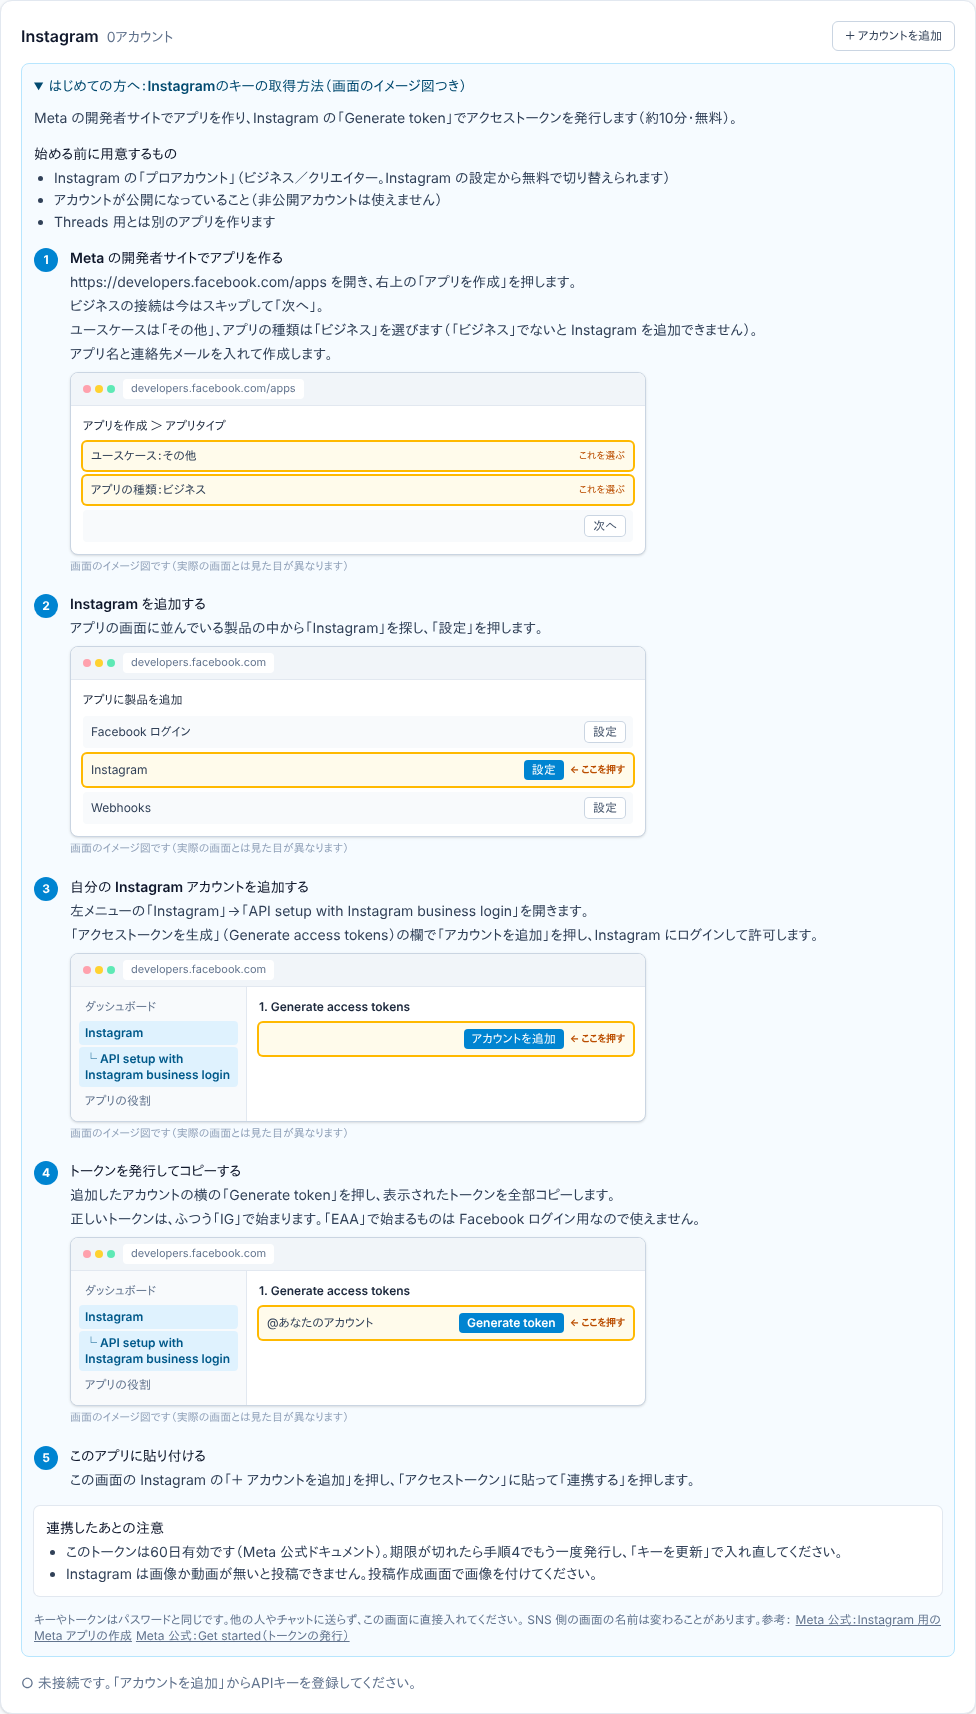
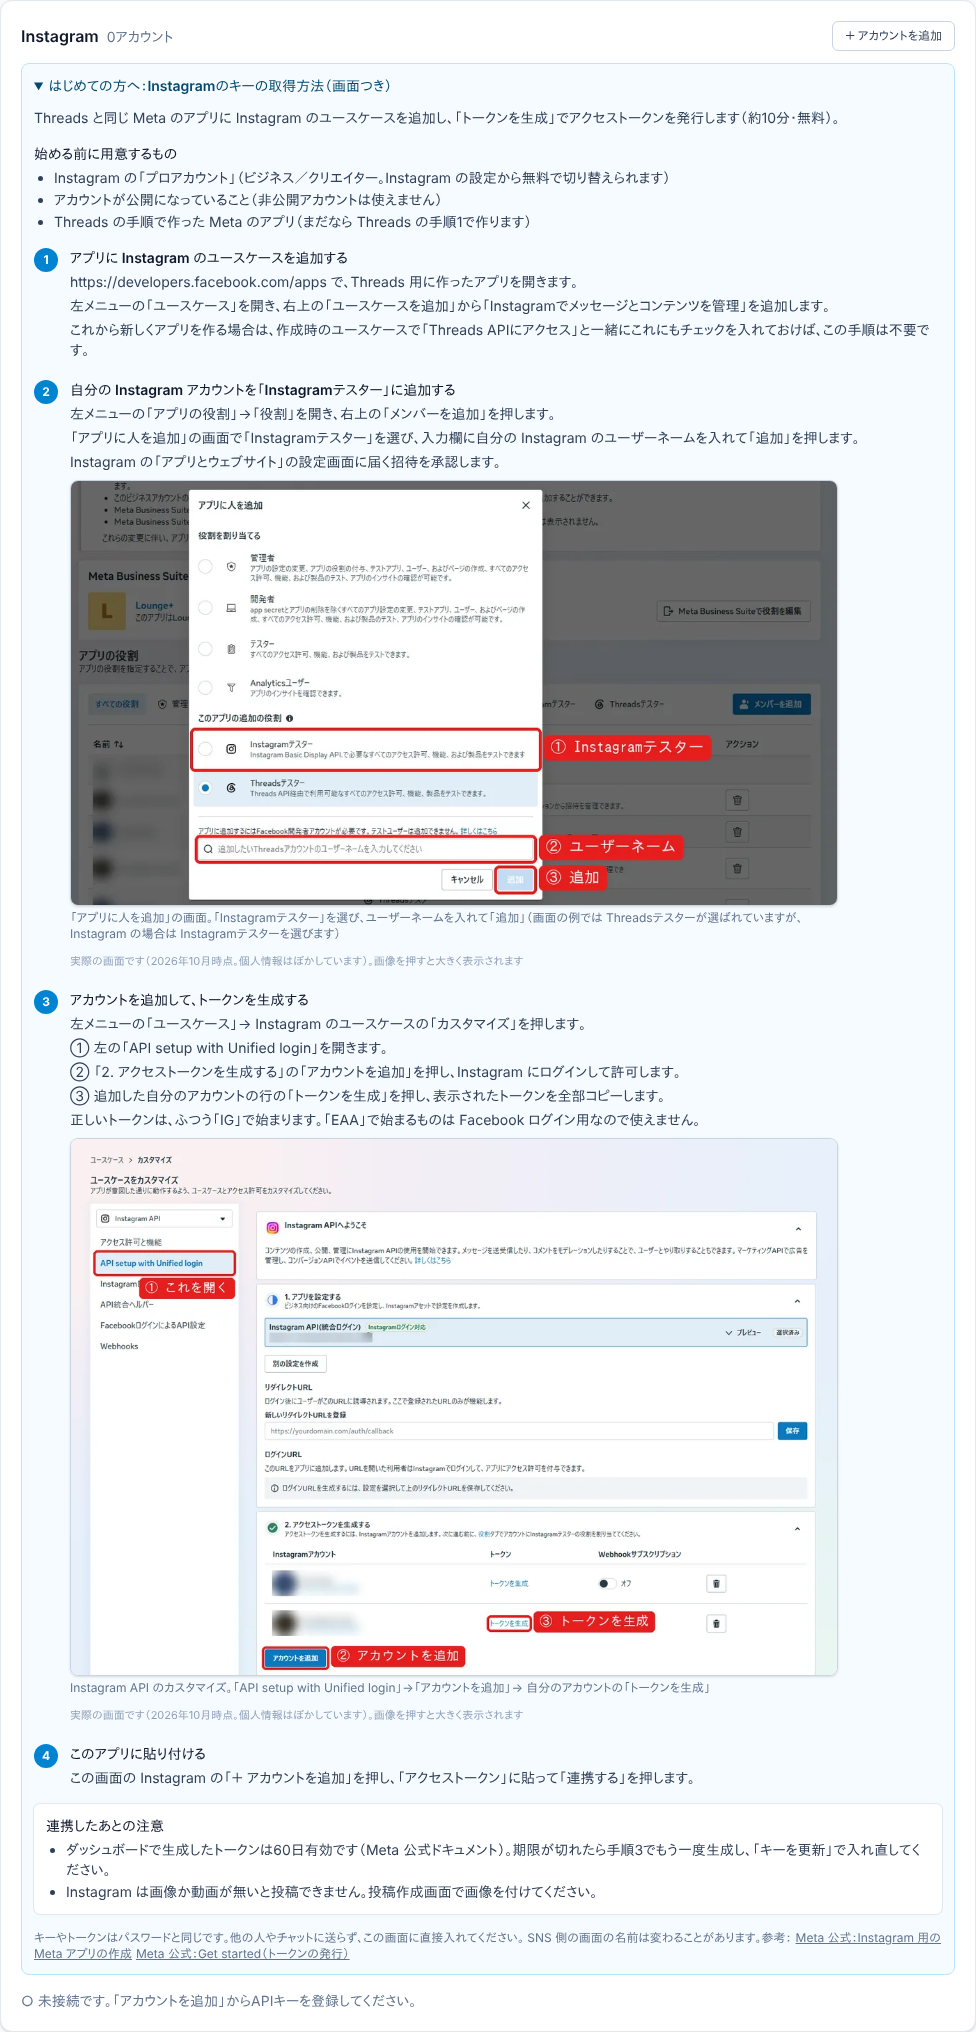
Threads・Instagram のキーの取得手順を実際の画面に差し替える
- Threads：権限の追加、テスターの追加、招待の承認を実際の画面に（お名前・ユーザーネームはぼかし）
- Instagram：Instagramテスターの追加を実際の画面に
- 権限の手順を実際の画面に合わせる（「アクセス許可と機能」で「テスト準備完了」なら追加済み）

Claude-Session: https://claude.ai/code/session_01KBhkvp7AxJzfnn6Fpjdrq9

diff --git a/lib/social/setup-guides.ts b/lib/social/setup-guides.ts
@@ -66,8 +66,11 @@ export const SETUP_GUIDES: Record<Platform, SetupGuide> = {
         title: "投稿と分析の権限を追加する",
         body: [
           "左メニューの「ユースケース」を開き、「Threads APIにアクセス」の「カスタマイズ」を押します。",
-          "「権限」の一覧で、次の3つの「追加」を押します：threads_basic（基本）、threads_content_publish（投稿）、threads_manage_insights（分析の数値）。",
+          "① 左の「アクセス許可と機能」を開きます。",
+          "次の3つを使えるようにします：threads_basic（基本）、threads_content_publish（投稿）、threads_manage_insights（分析の数値）。",
+          "② ステータスが「テスト準備完了」になっているものは追加済みです。③ まだのものは右の「追加」を押します。",
         ],
+        images: [{ src: "/guides/threads/02-permissions.webp", alt: "「アクセス許可と機能」の一覧。ステータスが「テスト準備完了」なら追加済み。まだのものは「追加」を押す" }],
         screen: {
           kind: "browser",
           site: "developers.facebook.com",
@@ -88,6 +91,7 @@ export const SETUP_GUIDES: Record<Platform, SetupGuide> = {
           "「アプリに人を追加」の画面で、下の「このアプリの追加の役割」にある「Threadsテスター」を選びます。",
           "下の入力欄に自分の Threads のユーザーネーム（@ の後ろ）を入れて、「追加」を押します。",
         ],
+        images: [{ src: "/guides/threads/03-tester.webp", alt: "「アプリに人を追加」の画面。「Threadsテスター」を選び、ユーザーネームを入れて「追加」" }],
         screen: {
           kind: "browser",
           site: "developers.facebook.com",
@@ -108,6 +112,7 @@ export const SETUP_GUIDES: Record<Platform, SetupGuide> = {
           "承認すると「アクティブ」タブにアプリ名が表示されます。",
           "あわせて「プライバシー」→「非公開プロフィール」が「公開」になっていることも確認してください（非公開だとトークンを発行できません）。",
         ],
+        images: [{ src: "/guides/threads/04-invite.webp", alt: "Threads の設定 →「その他の設定」→「ウェブサイトのアクセス許可」の「招待」タブ" }],
         screen: {
           kind: "phone",
           site: "threads.com/settings",
@@ -174,6 +179,12 @@ export const SETUP_GUIDES: Record<Platform, SetupGuide> = {
           "左メニューの「アプリの役割」→「役割」を開き、右上の「メンバーを追加」を押します。",
           "「アプリに人を追加」の画面で「Instagramテスター」を選び、入力欄に自分の Instagram のユーザーネームを入れて「追加」を押します。",
           "Instagram の「アプリとウェブサイト」の設定画面に届く招待を承認します。",
+        ],
+        images: [
+          {
+            src: "/guides/instagram/02-tester.webp",
+            alt: "「アプリに人を追加」の画面。「Instagramテスター」を選び、ユーザーネームを入れて「追加」（画面の例では Threadsテスターが選ばれていますが、Instagram の場合は Instagramテスターを選びます）",
+          },
         ],
       },
       {
